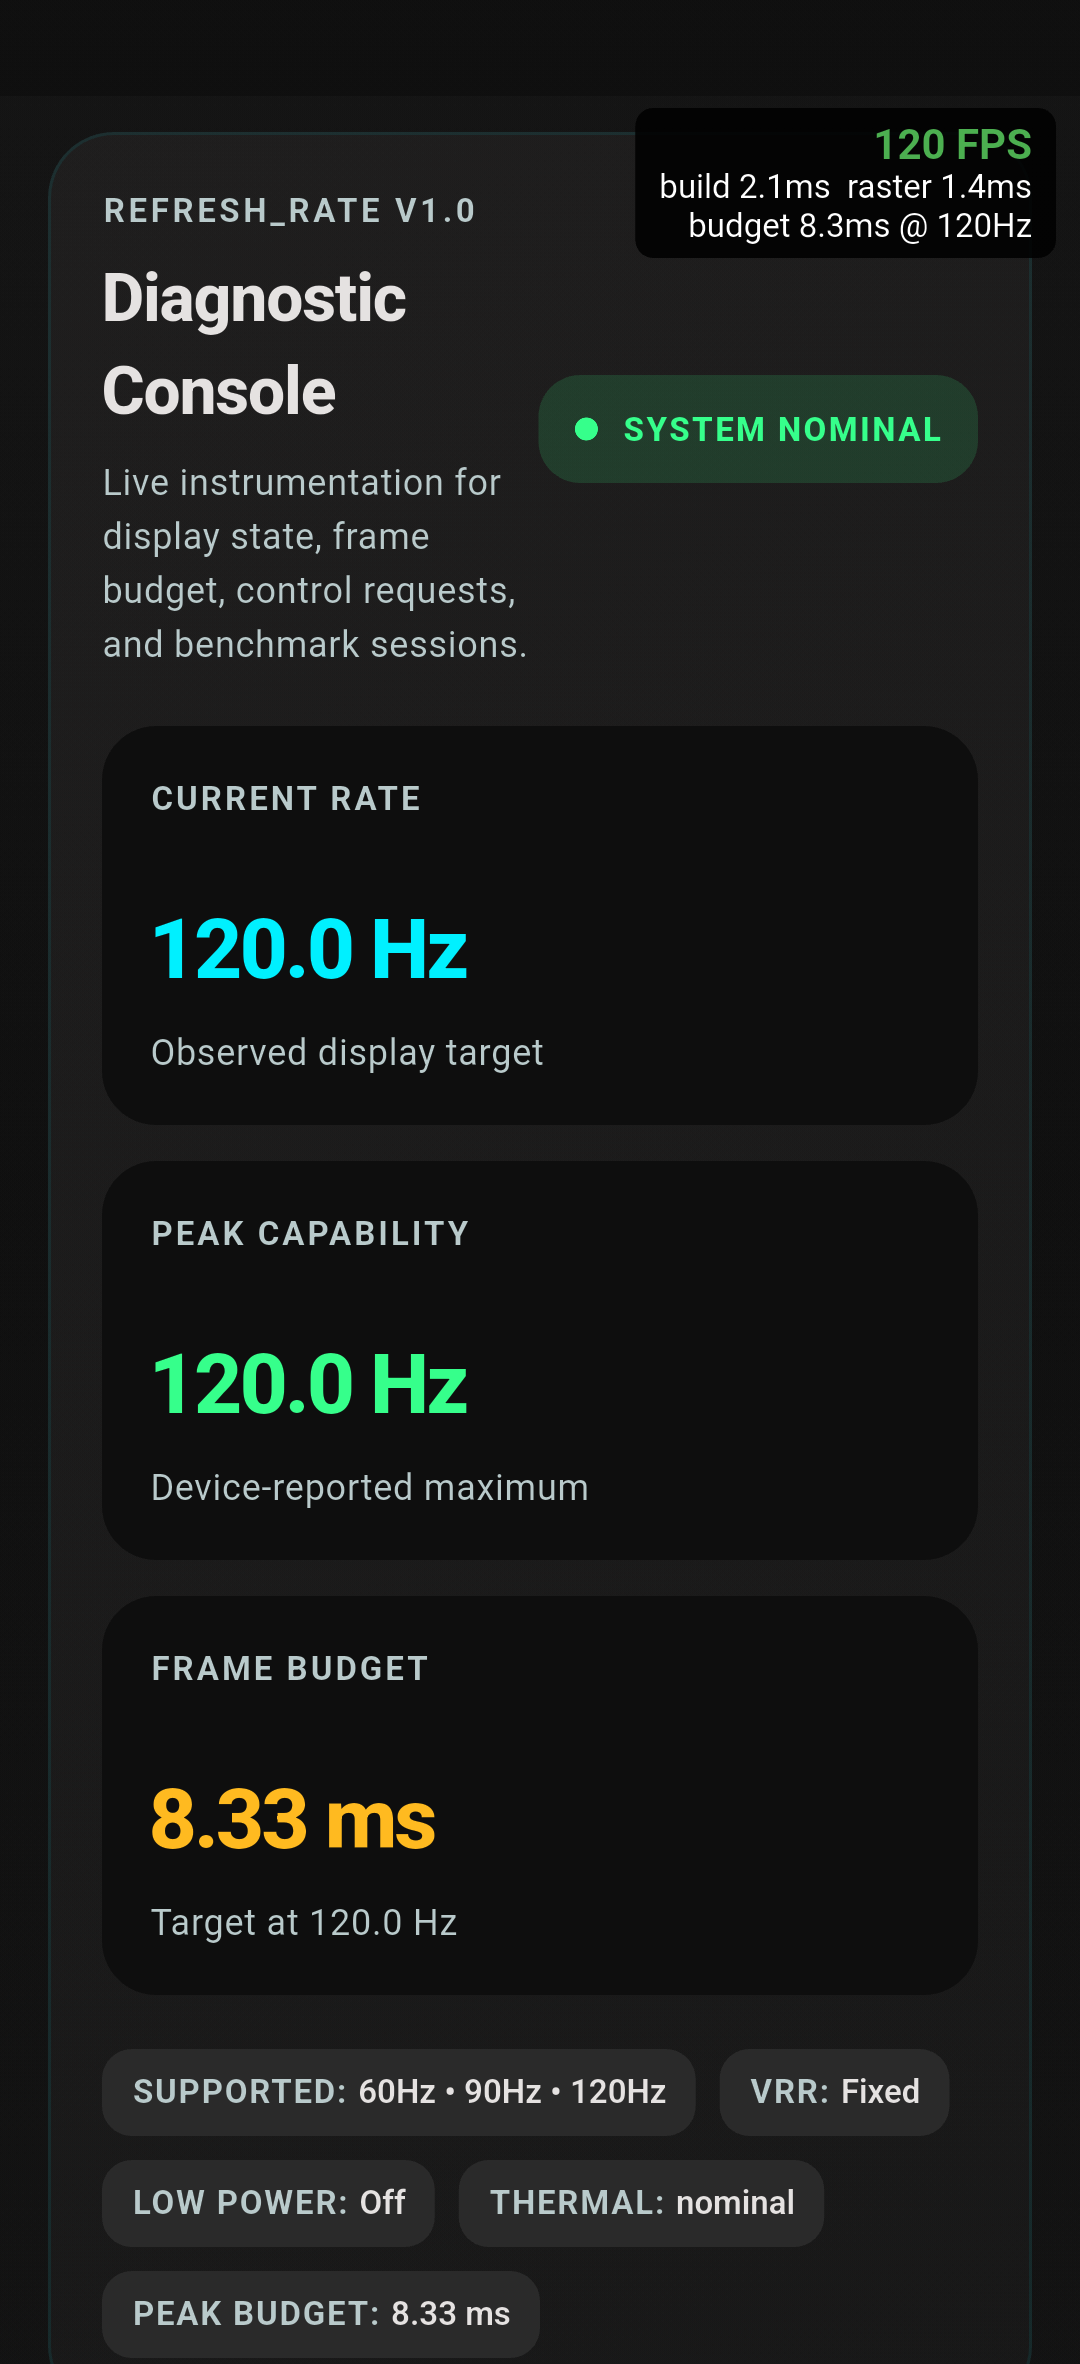
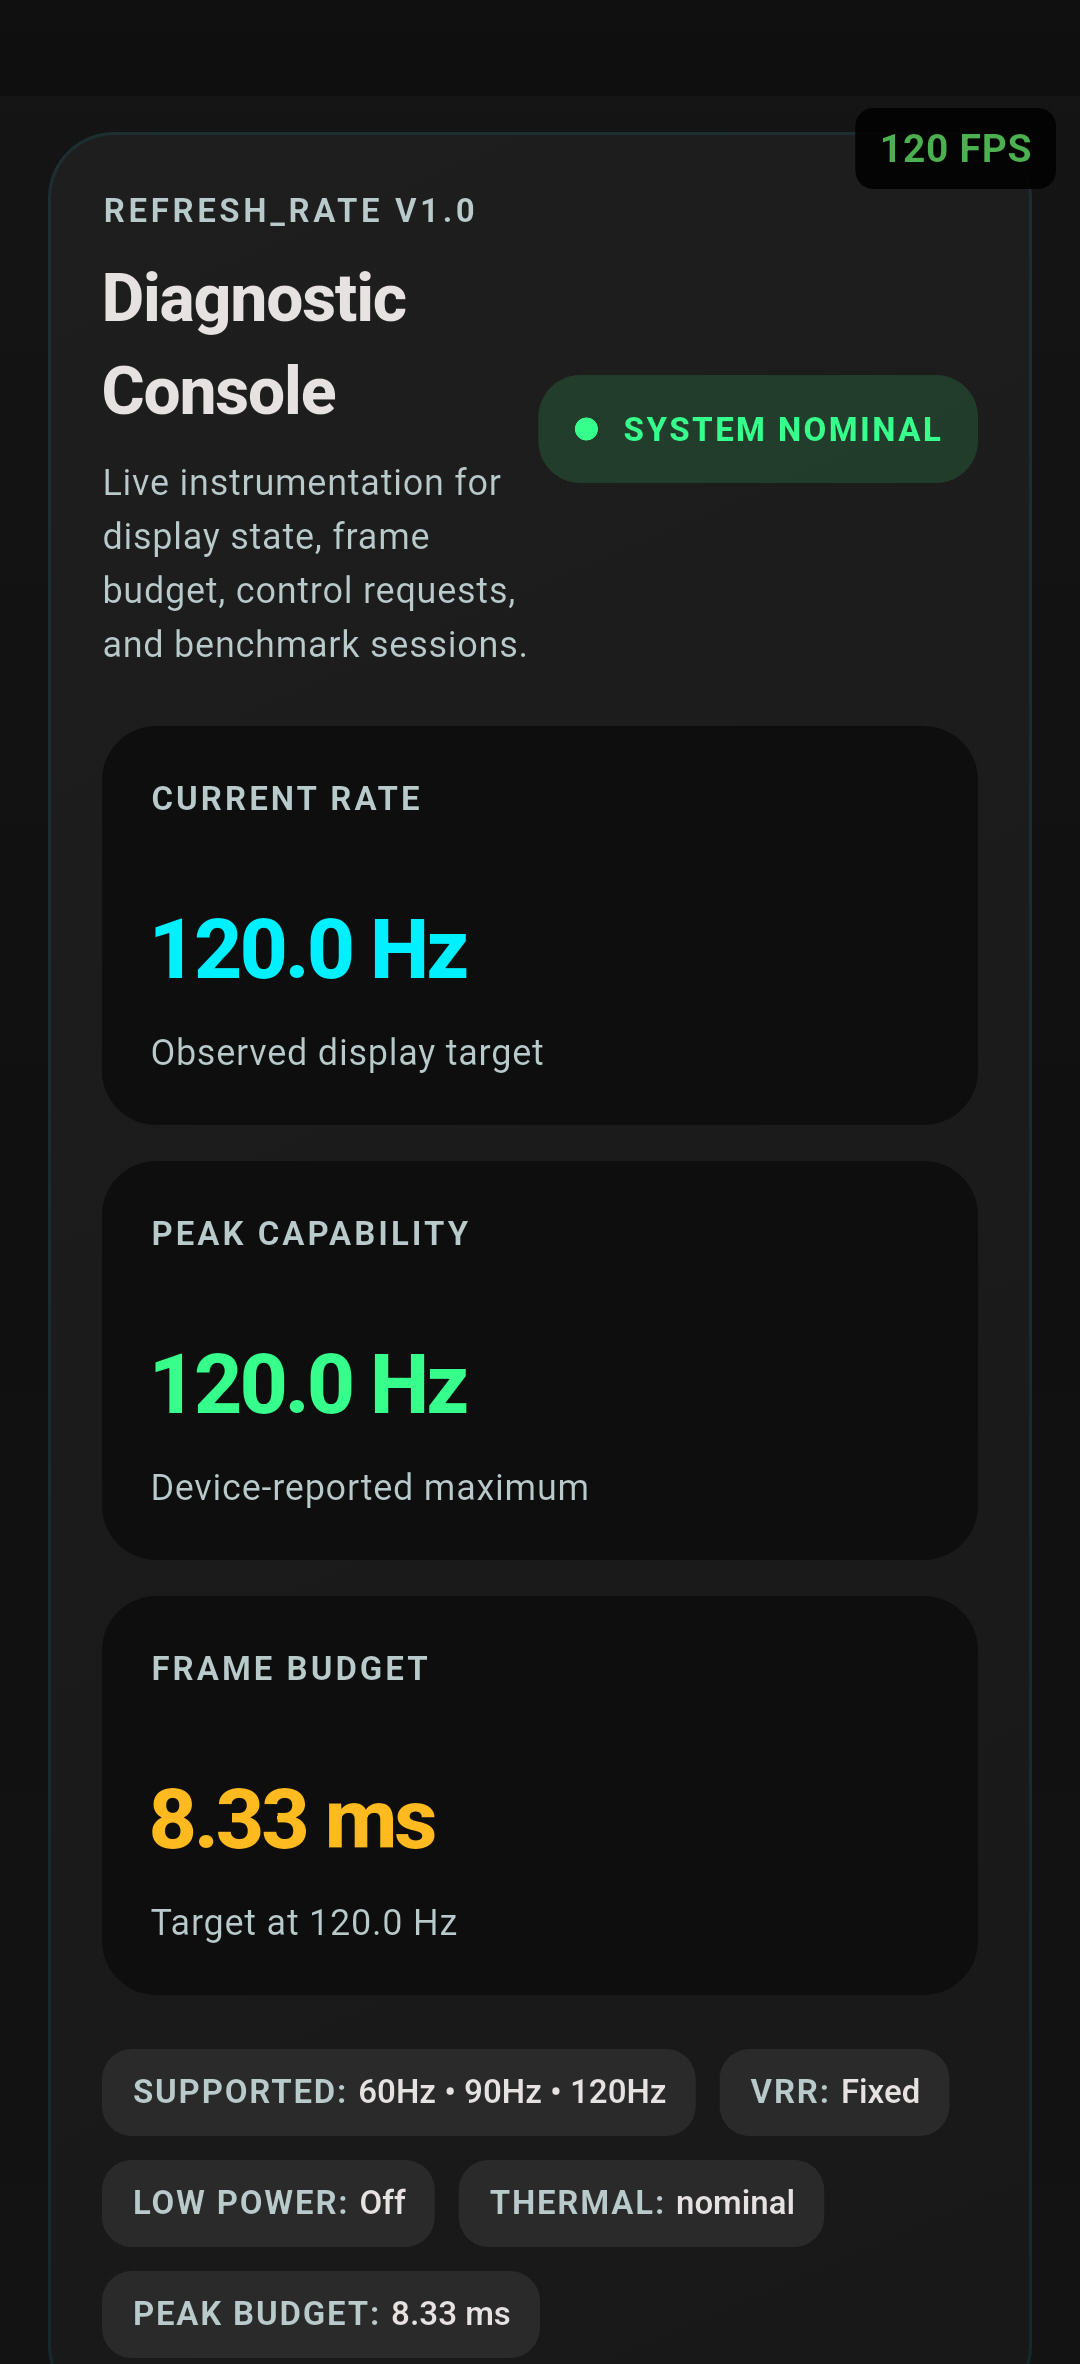
chore: remove web stub to maintain integrity

Changed region(s): [[0.5806, 0.0309, 0.9778, 0.1235]]

diff --git a/example/integration_test/screenshot_test.dart b/example/integration_test/screenshot_test.dart
@@ -36,8 +36,8 @@ Future<void> _captureScreenshot(
 // pump() doesn't generate real frame timings. These mock widgets render
 // hardcoded values that represent a realistic 120Hz device scenario.
 
-/// Mock FPS badge — identical styling to FullOverlayWidget but with
-/// hardcoded values showing a healthy 120 FPS readout.
+/// Mock FPS badge — identical styling to FpsOverlayWidget (showFPS) with
+/// a hardcoded value showing a healthy 120 FPS readout.
 Widget _mockFpsOverlay() {
   return Positioned(
     top: 0,
@@ -54,28 +54,13 @@ Widget _mockFpsOverlay() {
                 color: const Color(0xDD000000),
                 borderRadius: BorderRadius.circular(6),
               ),
-              child: const DefaultTextStyle(
+              child: const Text(
+                '120 FPS',
                 style: TextStyle(
-                  color: Color(0xFFFFFFFF),
-                  fontSize: 11,
+                  color: Color(0xFF4CAF50), // green — hitting target
+                  fontSize: 13,
+                  fontWeight: FontWeight.bold,
                   fontFeatures: [FontFeature.tabularFigures()],
-                ),
-                child: Column(
-                  mainAxisSize: MainAxisSize.min,
-                  crossAxisAlignment: CrossAxisAlignment.end,
-                  children: [
-                    Text(
-                      '120 FPS',
-                      style: TextStyle(
-                        color: Color(0xFF4CAF50), // green — hitting target
-                        fontSize: 14,
-                        fontWeight: FontWeight.bold,
-                        fontFeatures: [FontFeature.tabularFigures()],
-                      ),
-                    ),
-                    Text('build 2.1ms  raster 1.4ms'),
-                    Text('budget 8.3ms @ 120Hz'),
-                  ],
                 ),
               ),
             ),
